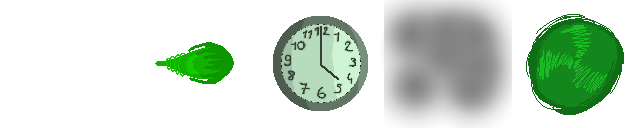
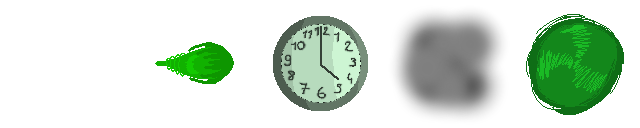
Enhance inventory

Changed region(s): [[0.5938, 0.0, 0.8125, 0.9375]]

diff --git a/main.js b/main.js
@@ -172,6 +172,10 @@ function create() {
       x: 784,
       y: 96,
       stepX: 160,
+    },
+    setScale: {
+      x: 0,
+      y: 0
     }
   });
 
@@ -273,7 +277,7 @@ function create() {
         ren.inventory.push(bon.type);
         bon.destroy();
         reneBonusSound.play();
-        updateInventoryDisplay();
+        updateInventoryDisplay.bind(this)();
         score += 1000;
         if (!this.tweens.isTweening(scoreText)) {
           this.tweens.add(({
@@ -337,7 +341,7 @@ function update() {
           scaleX: rene.scaleX - 1,
           scaleY: rene.scaleY - 1
         });
-        updateInventoryDisplay();
+        updateInventoryDisplay.bind(this)();
         shoot.bind(this)(shot, rene.inventory.length + 1);
       }
     }
@@ -711,11 +715,19 @@ function createParticles(particle) {
 
 function updateInventoryDisplay() {
   for (let i = 0; i < 3; i += 1) {
+    const itemImage = itemImages.getChildren()[i];
     if (!rene.inventory[i]) {
-      itemImages.getChildren()[i].setFrame(0);
+      itemImage.setFrame(0);
     } else {
-      itemImages.getChildren()[i].setFrame(items[rene.inventory[i]]);
+      itemImage.setFrame(items[rene.inventory[i]]);
     }
+    this.tweens.add({
+      targets: itemImage,
+      ease: t => --t * t * ((5 + 1) * t + 5) + 1,
+      duration: 400,
+      scaleX: (rene.inventory.length - i) / 3,
+      scaleY: (rene.inventory.length - i) / 3,
+    });
   }
 }
 
